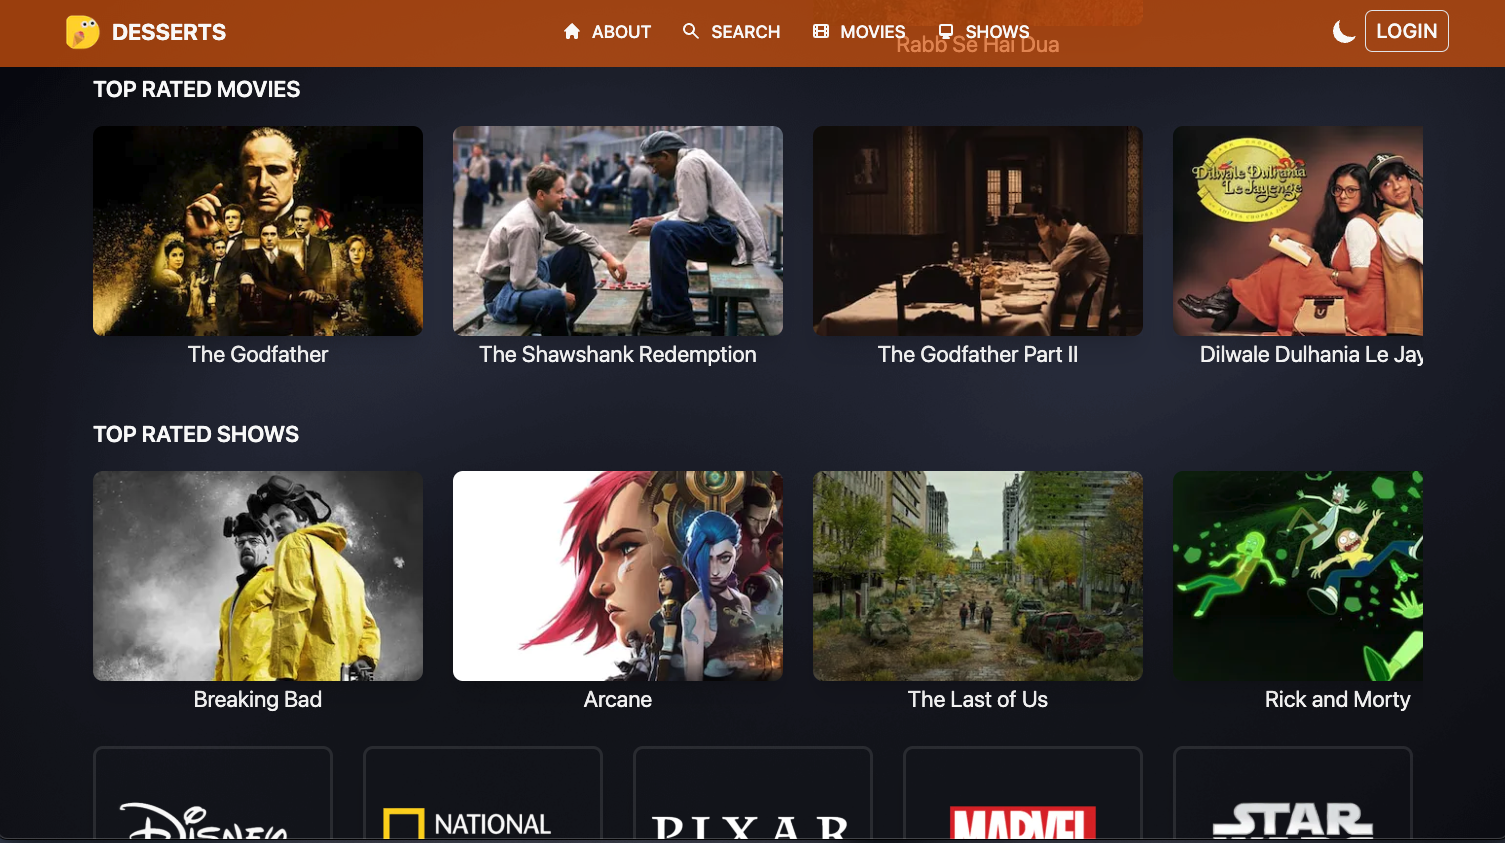
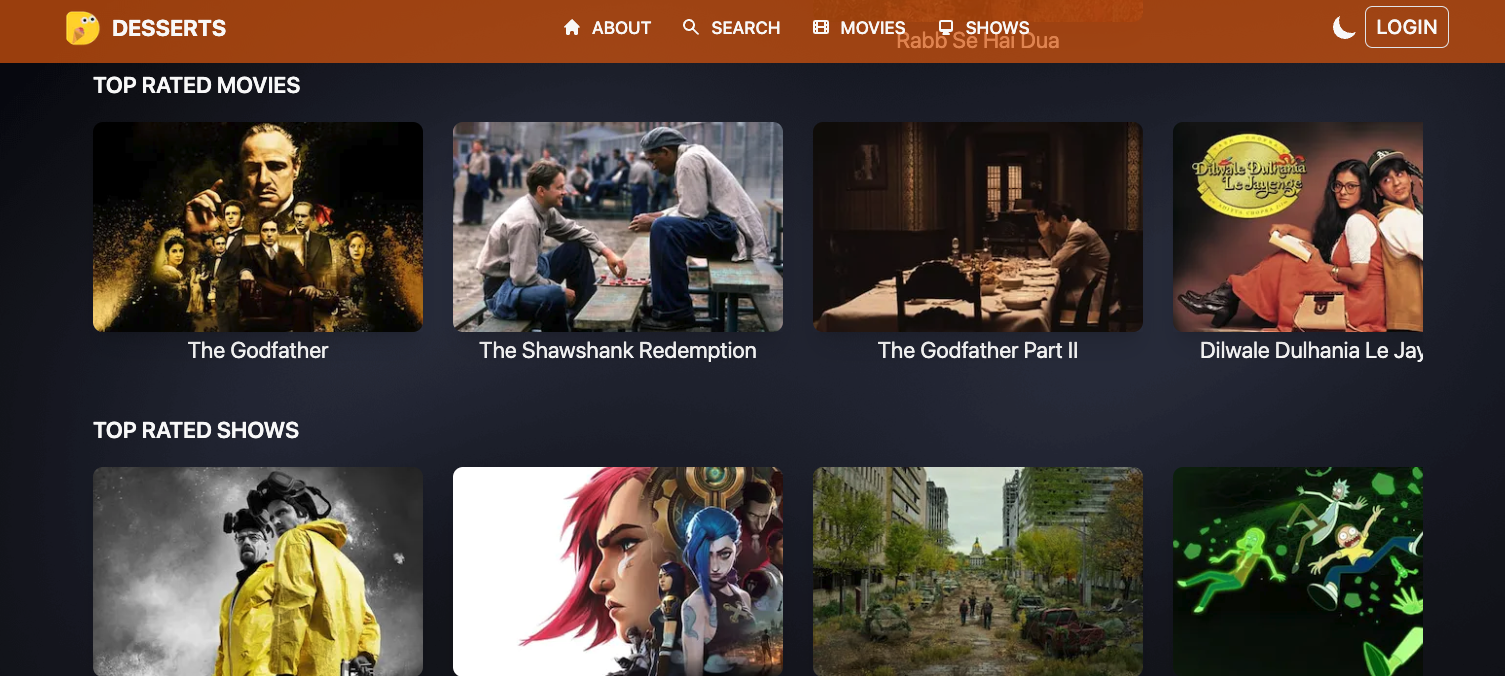
update images

diff --git a/pages/index.js b/pages/index.js
@@ -14,11 +14,14 @@ import { BsFillMoonStarsFill } from "react-icons/bs";
 import { useState } from "react";
 import Image from "next/image";
 import herop from "../public/hero.png";
-import movie from "../public/movie.png";
-import thumbnails from "../public/Thumbnails.png";
+import dessert0 from "../public/Thumbnails.png";
+import dessert3 from "../public/movie.png";
+import ins3 from "../public/ins.png";
 import { Link as Scroll } from "react-scroll";
-import search from "../public/search.png";
-import loginpage from "../public/login.png";
+import dessert2 from "../public/search.png";
+import loginIns from "../public/ins-login.png";
+import ins2 from "../public/ins2.png";
+import dessert1 from "../public/login.png";
 import Link from "next/link";
 export default function Home() {
   const [darkMode, setDarkMode] = useState(false);
@@ -71,7 +74,7 @@ export default function Home() {
                 <a
                   className="bg-gradient-to-r from-orange-500 to-orange-300
                    text-white px-4 py-2 border-none rounded-md ml-8"
-                  href="#"
+                  href="dp3why@gmail.com"
                 >
                   Contact
                 </a>
@@ -135,7 +138,6 @@ export default function Home() {
             <Link href="https://github.com/dp3why">
               <AiFillGithub className="dark:hover:text-white" />
             </Link>
-
             <AiFillGoogleCircle className="dark:hover:text-white" />
             <Link href="mailto:dp3why@gmail.com">
               <AiFillMail className="dark:hover:text-white" />
@@ -237,28 +239,28 @@ export default function Home() {
           <Link href="https://dessertai.vercel.app">
             <Image
               className="cursor-pointer  brightness-90 hover:brightness-110  rounded-lg object-cover transition duration-300 ease-in-out"
-              alt="img"
+              alt="desserts-0"
               width={"100%"}
-              height={"40%"}
+              height={"45%"}
               layout="responsive"
-              src={movie}
+              src={dessert0}
             />
           </Link>
           <div className="flex  flex-col lg:flex-row gap-10 py-10 ">
             <div className=" flex-1 ">
-              <Link href=" https://dessertai.vercel.app/signin ">
+              <Link href="https://dessertai.vercel.app/signin">
                 <Image
                   className="cursor-pointer brightness-90 hover:brightness-110 transition duration-300 ease-in-out rounded-lg object-cover"
                   alt="img"
                   width={"100%"}
                   height={"100%"}
                   layout="responsive"
-                  src={loginpage}
+                  src={dessert1}
                 />
               </Link>
             </div>
 
-            <Link href=" https://dessertai.vercel.app/search ">
+            <Link href="https://dessertai.vercel.app/search">
               <div className="relative flex-1">
                 <Image
                   className="cursor-pointer brightness-90 hover:brightness-110 transition duration-300 ease-in-out rounded-lg object-cover"
@@ -266,18 +268,56 @@ export default function Home() {
                   width={"100%"}
                   height={"100%"}
                   layout="responsive"
-                  src={search}
+                  src={dessert2}
                 />
               </div>
             </Link>
             <div className="  flex-1">
               <Image
                 className=" brightness-90 hover:brightness-110 transition duration-300 ease-in-out rounded-lg object-cover"
-                alt="img"
+                alt="dessert3"
                 width={"100%"}
                 height={"100%"}
                 layout="responsive"
-                src={thumbnails}
+                src={dessert3}
+              />
+            </div>
+          </div>
+          {/* APP 2 */}
+          <div className="flex  flex-col lg:flex-row gap-10 py-10 ">
+            <div className=" flex-1 ">
+              <Link href="https://lambent-praline-ebd115.netlify.app/">
+                <Image
+                  className="cursor-pointer brightness-90 hover:brightness-110 transition duration-300 ease-in-out rounded-lg object-cover"
+                  alt="instgram"
+                  width={"100%"}
+                  height={"100%"}
+                  layout="responsive"
+                  src={loginIns}
+                />
+              </Link>
+            </div>
+
+            <Link href="https://lambent-praline-ebd115.netlify.app/">
+              <div className="relative flex-1">
+                <Image
+                  className="cursor-pointer brightness-90 hover:brightness-110 transition duration-300 ease-in-out rounded-lg object-cover"
+                  alt="ins-2"
+                  width={"100%"}
+                  height={"100%"}
+                  layout="responsive"
+                  src={ins2}
+                />
+              </div>
+            </Link>
+            <div className="  flex-1">
+              <Image
+                className=" brightness-90 hover:brightness-110 transition duration-300 ease-in-out rounded-lg object-cover"
+                alt="ins-3"
+                width={"100%"}
+                height={"100%"}
+                layout="responsive"
+                src={ins3}
               />
             </div>
           </div>
@@ -336,9 +376,15 @@ export default function Home() {
           justify-center
           gap-[1rem] py-3 text-gray-600 dark:text-gray-400"
         >
-          <AiFillTwitterCircle className="dark:hover:text-white" />
-          <AiFillLinkedin className="dark:hover:text-white" />
-          <AiFillGithub className="dark:hover:text-white" />
+          <Link href="https://twitter.com/dp3why">
+            <AiFillTwitterCircle className="dark:hover:text-white" />
+          </Link>
+          <Link href="https://www.linkedin.com/in/hongyiusc/">
+            <AiFillLinkedin className="dark:hover:text-white" />
+          </Link>
+          <Link href="https://github.com/dp3why">
+            <AiFillGithub className="dark:hover:text-white" />
+          </Link>
           <AiFillGoogleCircle className="dark:hover:text-white" />
           <AiFillMail className="dark:hover:text-white" />
         </div>
